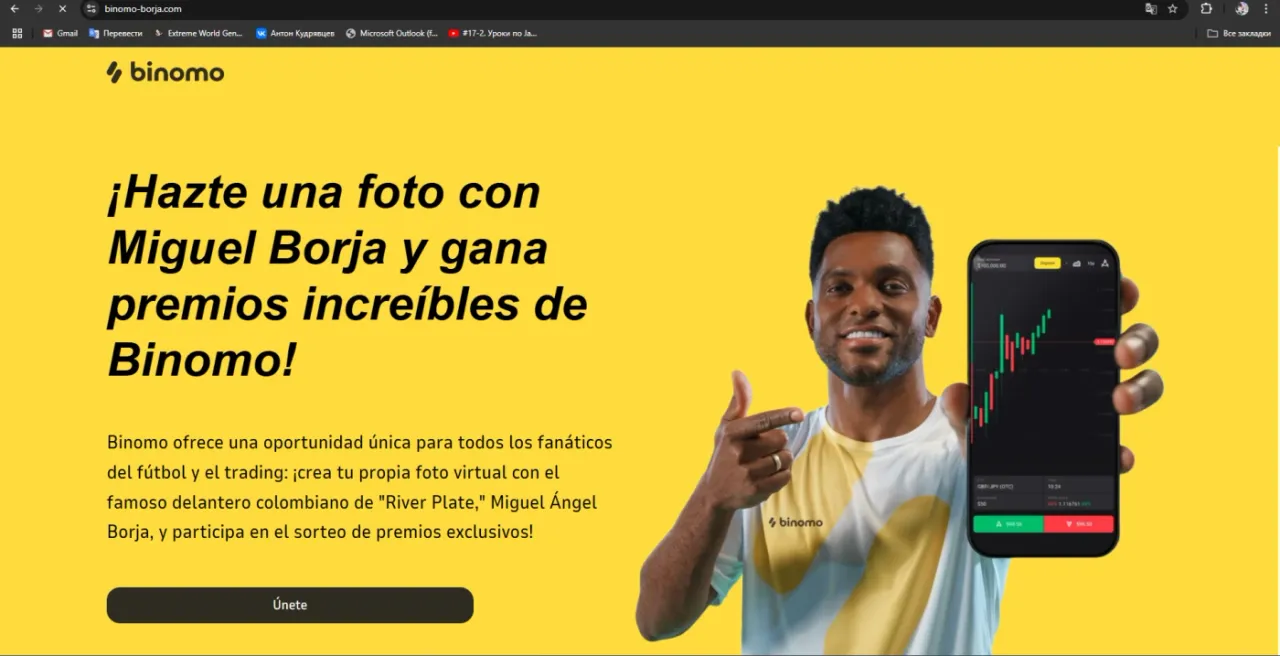
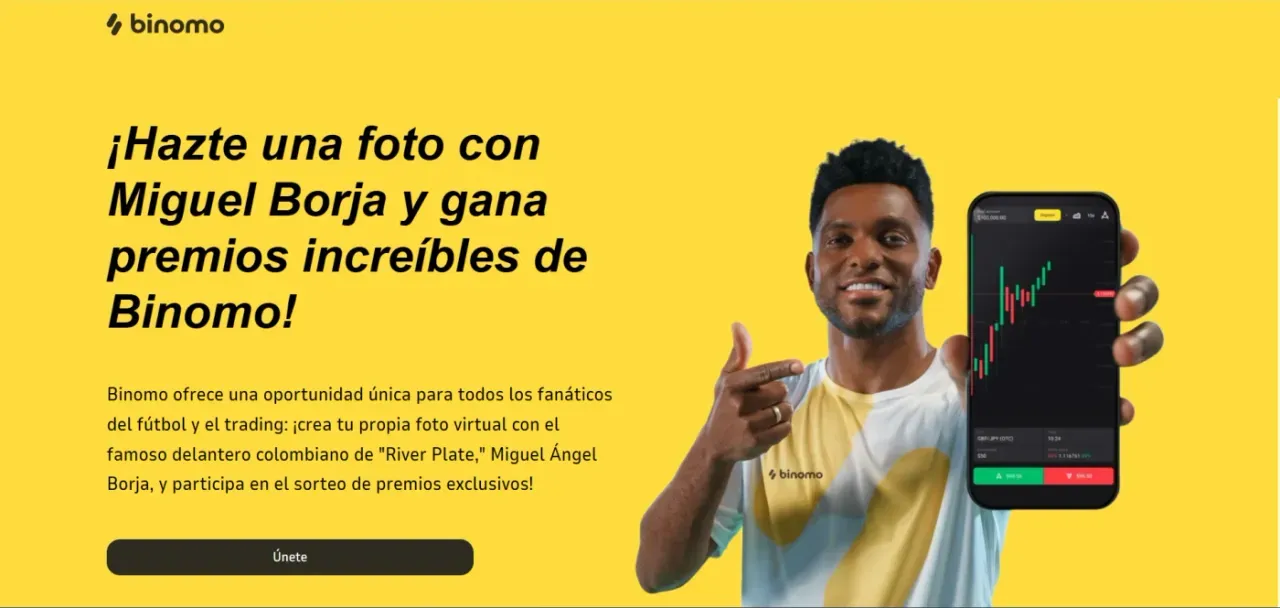
update

diff --git a/src/data/blurData.ts b/src/data/blurData.ts
@@ -29,7 +29,7 @@ export const blurData: Record<string, string> = {
[8 lines of base64/hex data omitted]

diff --git a/src/components/portfolio/CaseStudy.tsx b/src/components/portfolio/CaseStudy.tsx
@@ -197,11 +197,11 @@ export function CaseStudy({ item, next }: CaseStudyProps) {
 
       {/* ===== Экраны ===== */}
       <Section>
-        <motion.div
-          variants={staggerContainer(0.08)}
-          initial="hidden"
-          whileInView="visible"
-          viewport={revealViewport}
+        {/* Каждый экран проявляется на своём въезде в вид. Раньше анимацией
+            управлял общий контейнер с whileInView, но галерея выше вьюпорта,
+            и порог amount:0.2 в ней недостижим - экраны так и оставались
+            невидимыми (пустой экран при прокрутке). */}
+        <div
           className={
             isPortrait
               ? "grid gap-6 sm:grid-cols-2 lg:grid-cols-3"
@@ -212,6 +212,9 @@ export function CaseStudy({ item, next }: CaseStudyProps) {
             <motion.button
               key={src}
               type="button"
+              initial="hidden"
+              whileInView="visible"
+              viewport={{ once: true, amount: 0.15 }}
               variants={revealVariants("up")}
               onClick={() => setLightbox(i)}
               aria-label={`Открыть экран ${i + 1}`}
@@ -229,7 +232,7 @@ export function CaseStudy({ item, next }: CaseStudyProps) {
               )}
             </motion.button>
           ))}
-        </motion.div>
+        </div>
       </Section>
 
       {/* ===== Отклик ===== */}

diff --git a/src/data/imageSizes.ts b/src/data/imageSizes.ts
@@ -36,7 +36,7 @@ export const imageSizes: Record<string, ImageSize> = {
   "/portfolio/binomo/5.webp": { width: 1280, height: 604 },
   "/portfolio/binomo/6.webp": { width: 1280, height: 594 },
   "/portfolio/binomo/7.webp": { width: 1280, height: 607 },
-  "/portfolio/binomo/8.webp": { width: 1280, height: 656 },
+  "/portfolio/binomo/8.webp": { width: 1280, height: 608 },
   "/portfolio/fonbet/1.webp": { width: 662, height: 807 },
   "/portfolio/fonbet/2.webp": { width: 680, height: 804 },
   "/portfolio/fonbet/3.webp": { width: 641, height: 761 },
